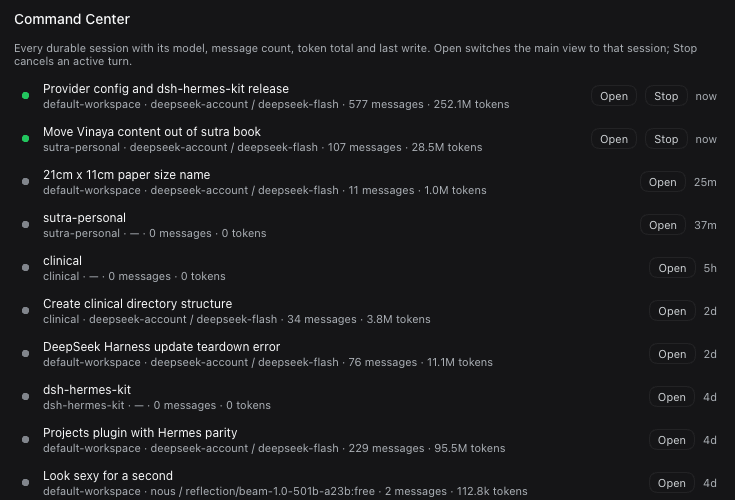
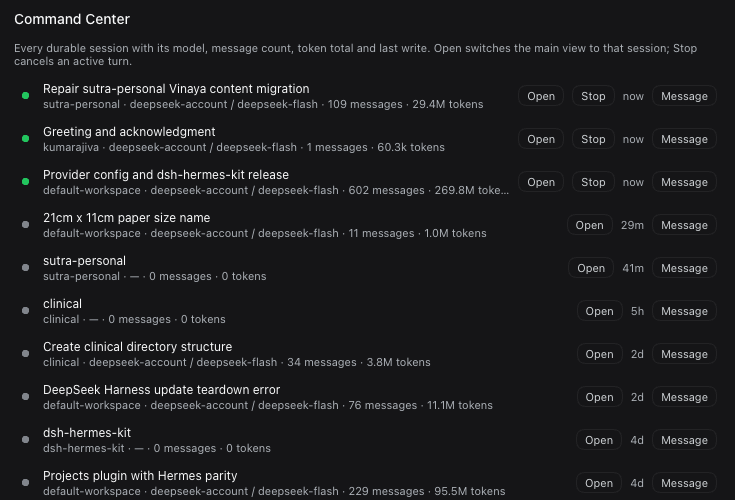
Command Center message/steer; inject remote.session

diff --git a/packages/toolbox/client.js b/packages/toolbox/client.js
@@ -470,10 +470,14 @@ window.__ModuleLoader__.load({
       )
     }
 
-    function CommandTab({ t, stop, open }) {
+    function CommandTab({ t, stop, open, send }) {
       const [data, setData] = useState(null)
       const [error, setError] = useState(null)
       const [stopping, setStopping] = useState(null)
+      const [composing, setComposing] = useState(null)
+      const [draft, setDraft] = useState('')
+      const [sending, setSending] = useState(null)
+      const [sent, setSent] = useState(null)
       const load = useCallback(() => {
         fetchJson('/api/toolbox/sessions').then(setData).catch((e) => setError(e.message))
       }, [])
@@ -525,18 +529,63 @@ window.__ModuleLoader__.load({
               }, stopping === row.id ? t('command.stopping') : t('command.stop'))
             : null,
           h('span', { className: 'tbx-muted' }, ago(row.updatedAt)),
+          h('button', {
+            type: 'button',
+            className: 'tbx-btn',
+            onClick: () => {
+              setComposing(composing === row.id ? null : row.id)
+              setDraft('')
+            },
+          }, t('command.message')),
+          composing === row.id
+            ? h('form', {
+                className: 'tbx-add',
+                style: { flexBasis: '100%', marginTop: 4 },
+                onSubmit: async (event) => {
+                  event.preventDefault()
+                  const text = draft.trim()
+                  if (text === '') return
+                  setSending(row.id)
+                  try {
+                    const result = await send(row.id, text, row.active)
+                    if (result?.ok === false) setError(result.error?.message || t('command.sendFailed'))
+                    else {
+                      setSent(row.id)
+                      setComposing(null)
+                      setDraft('')
+                      window.setTimeout(() => setSent(null), 2000)
+                    }
+                  } catch (e) {
+                    setError(e.message)
+                  } finally {
+                    setSending(null)
+                  }
+                },
+              },
+                h('input', {
+                  autoFocus: true,
+                  value: draft,
+                  placeholder: row.active ? t('command.steerPlaceholder') : t('command.queuePlaceholder'),
+                  'aria-label': t('command.message'),
+                  onChange: (event) => setDraft(event.target.value),
+                }),
+                h('button', { type: 'submit', className: 'tbx-btn', disabled: sending === row.id },
+                  sending === row.id ? t('command.sending') : t('command.send')),
+              )
+            : null,
+          sent === row.id ? h('span', { className: 'tbx-muted' }, t('command.sent')) : null,
         )),
       )
     }
 
-    function CommandPage({ t, stop, open }) {
+    function CommandPage({ t, stop, open, send }) {
       return h(
         'div',
         { className: 'tbx-page' },
         h('div', { className: 'tbx-head' }, h('span', { className: 'tbx-title' }, t('command.title'))),
         h('div', { className: 'tbx-body' },
           h('div', { className: 'tbx-note' }, t('command.note')),
-          h(CommandTab, { t, stop, open }),
+          h(CommandTab, { t, stop, open, send }),
         ),
       )
     }
@@ -649,6 +698,13 @@ window.__ModuleLoader__.load({
       'command.note': 'Every durable session with its model, message count, token total and last write. Open switches the main view to that session; Stop cancels an active turn.',
       'command.empty': 'No sessions found.',
       'command.open': 'Open',
+      'command.message': 'Message',
+      'command.send': 'Send',
+      'command.sending': 'Sending…',
+      'command.sent': 'Sent.',
+      'command.sendFailed': 'The session did not accept the message.',
+      'command.steerPlaceholder': 'Steer this running session…',
+      'command.queuePlaceholder': 'Queue a message for this session…',
       'command.stop': 'Stop',
       'command.stopping': 'Stopping…',
       'command.stopFailed': 'The session did not accept the stop request.',
@@ -710,6 +766,13 @@ window.__ModuleLoader__.load({
       'command.note': '每个持久会话的模型、消息数、token 总量与最近写入。打开会切换到该会话；停止会取消正在进行的回合。',
       'command.empty': '没有会话。',
       'command.open': '打开',
+      'command.message': '消息',
+      'command.send': '发送',
+      'command.sending': '发送中…',
+      'command.sent': '已发送。',
+      'command.sendFailed': '会话没有接受该消息。',
+      'command.steerPlaceholder': '引导这个正在运行的会话…',
+      'command.queuePlaceholder': '为这个会话排队一条消息…',
       'command.stop': '停止',
       'command.stopping': '停止中…',
       'command.stopFailed': '会话没有接受停止请求。',
@@ -763,6 +826,14 @@ window.__ModuleLoader__.load({
       ctx.effect(() => ctx.locale.register(NS, { en, zh }), 'toolbox: dictionaries')
       const t = ctx.locale.bind(NS)
       const stopSession = (sessionId) => ctx.remote.session.cancel({ sessionId })
+      const sendPrompt = (sessionId, text, active) =>
+        ctx.remote.session.prompt({
+          requestId: (globalThis.crypto?.randomUUID?.() ?? `${Date.now()}-${Math.random().toString(36).slice(2)}`),
+          sessionId,
+          mode: active ? 'steer' : 'queue',
+          content: [{ type: 'text', text }],
+          clientTimeZone: Intl.DateTimeFormat().resolvedOptions().timeZone,
+        })
       let openSession = () => {}
       ctx.inject(['uiWorkspace'], (scope) => {
         openSession = (sessionId) => scope.uiWorkspace.openSession(sessionId)
@@ -785,7 +856,7 @@ window.__ModuleLoader__.load({
         skills: SkillsPage,
         providers: ProvidersPage,
         kanban: KanbanPage,
-        command: (props) => h(CommandPage, { ...props, stop: stopSession, open: (id) => openSession(id) }),
+        command: (props) => h(CommandPage, { ...props, stop: stopSession, open: (id) => openSession(id), send: sendPrompt }),
       }
       for (const key of Object.keys(pages)) {
         ctx.slots.inject('main', () =>
@@ -794,6 +865,6 @@ window.__ModuleLoader__.load({
       }
     }
 
-    return { inject: ['slots', 'locale', 'remote'], apply }
+    return { inject: ['slots', 'locale', 'remote', 'remote.session'], apply }
   },
 })

diff --git a/packages/toolbox/README.md b/packages/toolbox/README.md
@@ -5,7 +5,7 @@ A Toolbox package for DeepSeek Harness that registers four separate sidebar pane
 - **Skills** — every skill in `~/.dsh/skills` plus the retired set in `~/.dsh/skills-retired`, with the curator's load count and last-seen time, sortable by loads/recent/name, a "never fired" filter, duplicate-name badges, and a switch that moves a skill between the two directories. Disabling is a directory move, because a leading dot does not hide a skill from DSH's catalogue.
 - **Providers** — per provider/model totals read from the newest 40 session logs (concatenated zstd JSONL): messages, input/output/cache tokens, mean response time, error count, last used. Cached for a minute on the Host. A **Test** button makes one timed one-token call through `ctx.llm` to that route and reports first-chunk and total time.
 - **Kanban** — a three-column board persisted at `~/.dsh/toolbox/board.json`: drag to any position, double-click to edit a card, add and remove. A Host `kanban` tool (`list` / `add` / `move` / `remove`) lets the agent read and change the same board.
-- **Command Center** — every durable session with status, model, message count, token total and last write, read from the session logs. **Open** calls `uiWorkspace.openSession`; active rows carry a **Stop** button wired to `session/cancel`.
+- **Command Center** — every durable session with status, model, message count, token total and last write, read from the session logs. **Open** calls `uiWorkspace.openSession`, **Message** sends `session/prompt` (`steer` for a running session, `queue` for an idle one), and active rows carry a **Stop** wired to `session/cancel`.
 
 Host routes, all under `/api/toolbox/`:
 

diff --git a/TODO.md b/TODO.md
@@ -3,7 +3,7 @@
 ## Next
 
 - [ ] Session import from ChatGPT / Claude exports (needs a validated session-file writer; verify with a relaunch)
-- [ ] Command Center: steer (queue edit) still open; Open and Stop shipped
+- [x] Command Center: Open, Stop, Message (steer/queue)
 - [ ] Command Center actions: open, steer, stop (needs the live session projection API, not just log files)
 
 ## Later
@@ -22,6 +22,7 @@
 - [x] Provider mean response time
 - [x] Command Center Stop (session/cancel)
 - [x] Command Center Open (uiWorkspace.openSession)
+- [x] Command Center Message (session/prompt steer/queue)
 - [x] `kanban` agent tool (list/add/move/remove)
 - [x] Provider Test button (one-token ping)
 - [x] One-command installer and CLI kit (memory, checkpoints, curator, registry, skill audit)

diff --git a/docs/improvements.md b/docs/improvements.md
@@ -102,7 +102,7 @@ Ten to fifteen concrete next steps for every surface shipped with the kit. Effor
 ## Command Center
 
 1. **Open** — click a row to focus that session. (L — client session-open API) ✅ shipped via `uiWorkspace.openSession`
-2. **Stop / steer** — `session/cancel` and queue edits with confirmation. (L) ◐ shipped: Stop wired to `session/cancel`; steer still open
+2. **Stop / steer** — `session/cancel` and queue edits with confirmation. (L) ✅ shipped: Stop via `session/cancel`, steer/queue via `session/prompt`
 3. **Live state** — running/awaiting from the client session store, not log mtime. (M)
 4. **Pending approvals** — show which sessions are blocked on a question. (M)
 5. **Subagent tree** — parent/child lineage instead of a flat list. (M)

diff --git a/README.md b/README.md
@@ -78,7 +78,7 @@ Four separate sidebar panels from one package.
 
 ![Kanban board](docs/images/toolbox-kanban.png)
 
-**Command Center** — every durable session with its status, model, message count, token total and last write. **Open** switches the main view to that session; **Stop** cancels an active session's current turn.
+**Command Center** — every durable session with its status, model, message count, token total and last write. **Open** switches the main view to that session, **Message** queues a prompt (steers it when the session is running), and **Stop** cancels an active turn.
 
 ![Command Center](docs/images/command-center.png)
 
